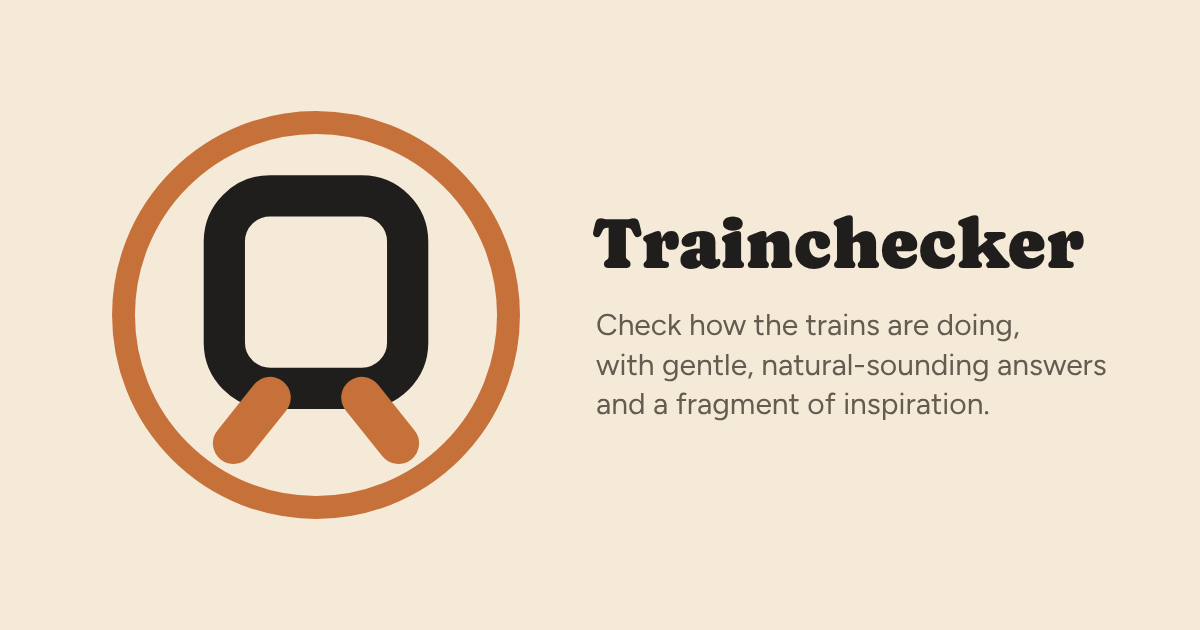
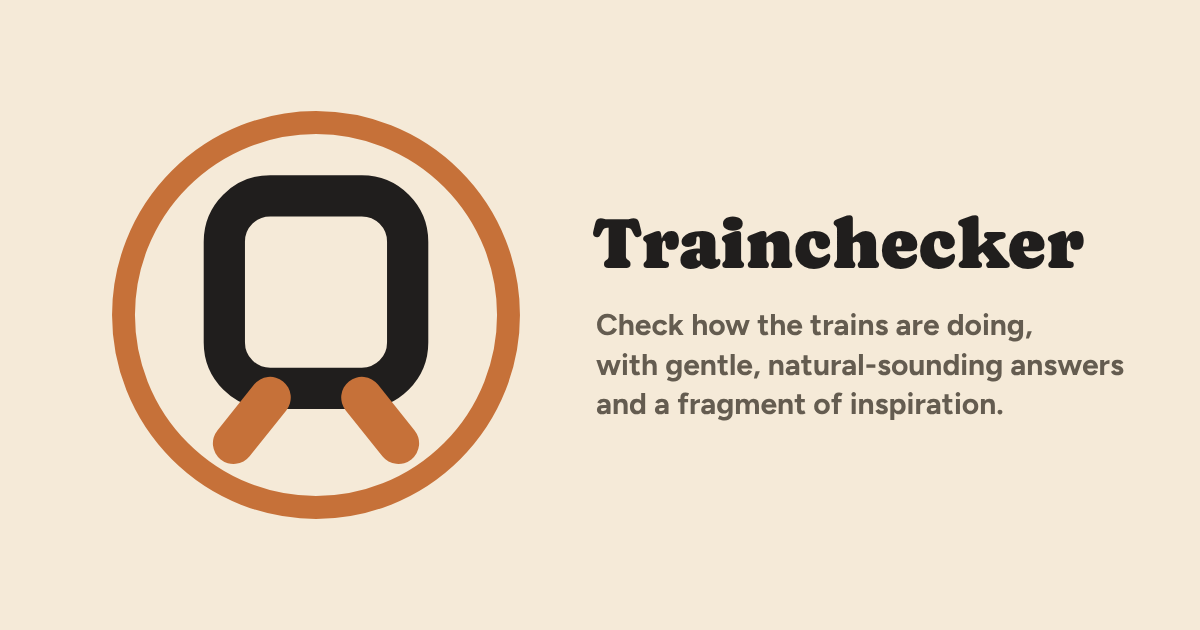
Sharing picture: the words in bold (Figtree 700)
Claude-Session: https://claude.ai/code/session_01BsvHLKkiLspLZbHveWRfJQ

Changed region(s): [[0.4933, 0.4825, 0.9558, 0.6635]]

diff --git a/design/og-trainchecker.html b/design/og-trainchecker.html
@@ -1,13 +1,13 @@
-<!doctype html><!-- The link-preview picture (public/og-trainchecker.png), option A; the wording John chose for sharing on November 18th 2026 (three lines, broken at the commas; the name and words centred as a block beside the drawing). Fonts from node_modules (house style §7). Remake: node design/og-shoot.cjs -->
+<!doctype html><!-- The link-preview picture (public/og-trainchecker.png), option A; the wording John chose for sharing on November 18th 2026 (three lines, broken at the commas, in bold; the name and words centred as a block beside the drawing). Fonts from node_modules (house style §7). Remake: node design/og-shoot.cjs -->
 <html lang="en-GB"><head><meta charset="utf-8"><title>Trainchecker link preview</title>
 <style>
 @font-face{font-family:Caprasimo;font-weight:400;src:url(../node_modules/@fontsource/caprasimo/files/caprasimo-latin-400-normal.woff2) format("woff2")}
-@font-face{font-family:Figtree;font-weight:400;src:url(../node_modules/@fontsource/figtree/files/figtree-latin-400-normal.woff2) format("woff2")}
+@font-face{font-family:Figtree;font-weight:700;src:url(../node_modules/@fontsource/figtree/files/figtree-latin-700-normal.woff2) format("woff2")}
 </style>
 <style>html,body{margin:0}body{width:1200px;height:630px;background:#f5ead8;position:relative;overflow:hidden;font-family:Figtree,sans-serif;color:#201e1d}
 svg{position:absolute;left:96px;top:95px;width:440px;height:440px}
 .t{position:absolute;left:592px;top:50%;transform:translateY(-50%);width:580px}
 h1{margin:0;font-family:Caprasimo,serif;font-weight:400;font-size:72px;line-height:1}
-p{margin:26px 0 0 4px;font-size:30px;line-height:1.32;color:#645c50}</style></head>
+p{margin:26px 0 0 4px;font-size:30px;font-weight:700;line-height:1.32;color:#645c50}</style></head>
 <body><svg viewBox="0 0 48 48"><circle cx="24" cy="24" r="21" fill="#f5ead8" stroke="#c67139" stroke-width="2.5"/><rect x="14" y="11" width="20" height="21" rx="5" fill="none" stroke="#201e1d" stroke-width="4.5"/><path d="M15 38 L19 33 M33 38 L29 33" stroke="#c67139" stroke-width="4.5" stroke-linecap="round"/></svg>
 <div class="t"><h1>Trainchecker</h1><p>Check how the trains are doing,<br>with gentle, natural-sounding answers<br>and a fragment of inspiration.</p></div></body></html>

diff --git a/CLAUDE.md b/CLAUDE.md
@@ -58,7 +58,16 @@ given its own branch). Before committing there, run
 
 ## Log
 
-### November 18th 2026: new wording for sharing a link (branch `claude/laughing-hawking-8d2b6w`, not merged; Claude Code)
+### November 18th 2026: the sharing picture's words in bold; merged and live (Claude Code)
+
+- **John:** bold rather than semi-bold or regular (three mock-ups); "make it live". `design/og-trainchecker.html`
+  loads Figtree 700 instead of 400; `og-shoot.cjs` checks the 700 weight; `public/og-trainchecker.png` remade
+  (identical to the mock-up). `SPEC.md` §12.7.
+- Merged into `main` with the new sharing wording (the branch's earlier commit). Checks, `tsc -b`, lint and build
+  clean first. Apps keep their own copy of a link's preview for a while, so a chat where the link hasn't been sent
+  before shows the new card soonest.
+
+### November 18th 2026: new wording for sharing a link (branch `claude/laughing-hawking-8d2b6w`, merged the same day; Claude Code)
 
 - **John:** for the link preview, "Check how the trains are doing, with gentle, natural-sounding answers and a
   fragment of inspiration."; option A of two mock-ups (three lines, broken at the commas). `SPEC.md` §12.7.

diff --git a/SPEC.md b/SPEC.md
@@ -535,5 +535,5 @@ they differ.
    - About keeps "within three minutes of the timetable" (a definition).
 7. **Sharing a link** (the link-preview picture and its text tags): "Check how the trains are doing, with
    gentle, natural-sounding answers and a fragment of inspiration." In the picture, three lines broken at
-   the commas (option A). The tagline itself is unchanged; baish.net's line is "Are the trains OK? (With
+   the commas (option A), in bold (Figtree 700, John). The tagline itself is unchanged; baish.net's line is "Are the trains OK? (With
    gentle, natural answers.)".
